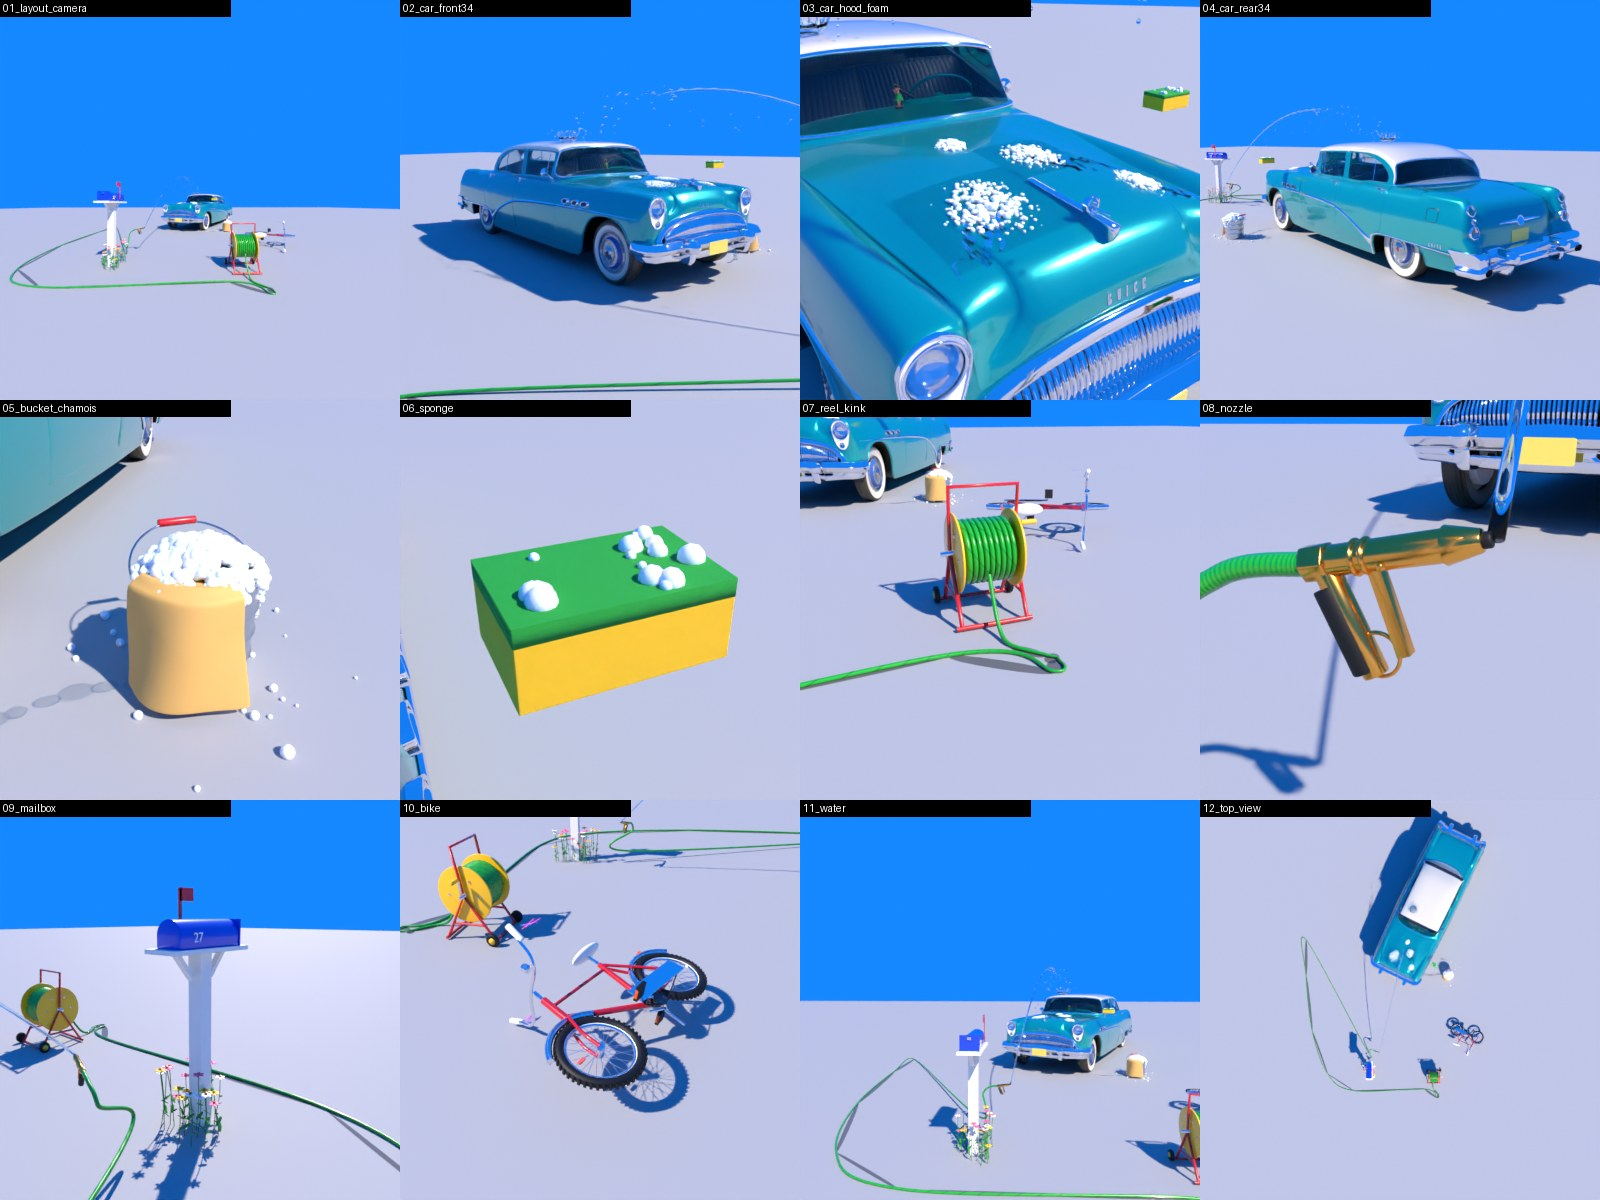
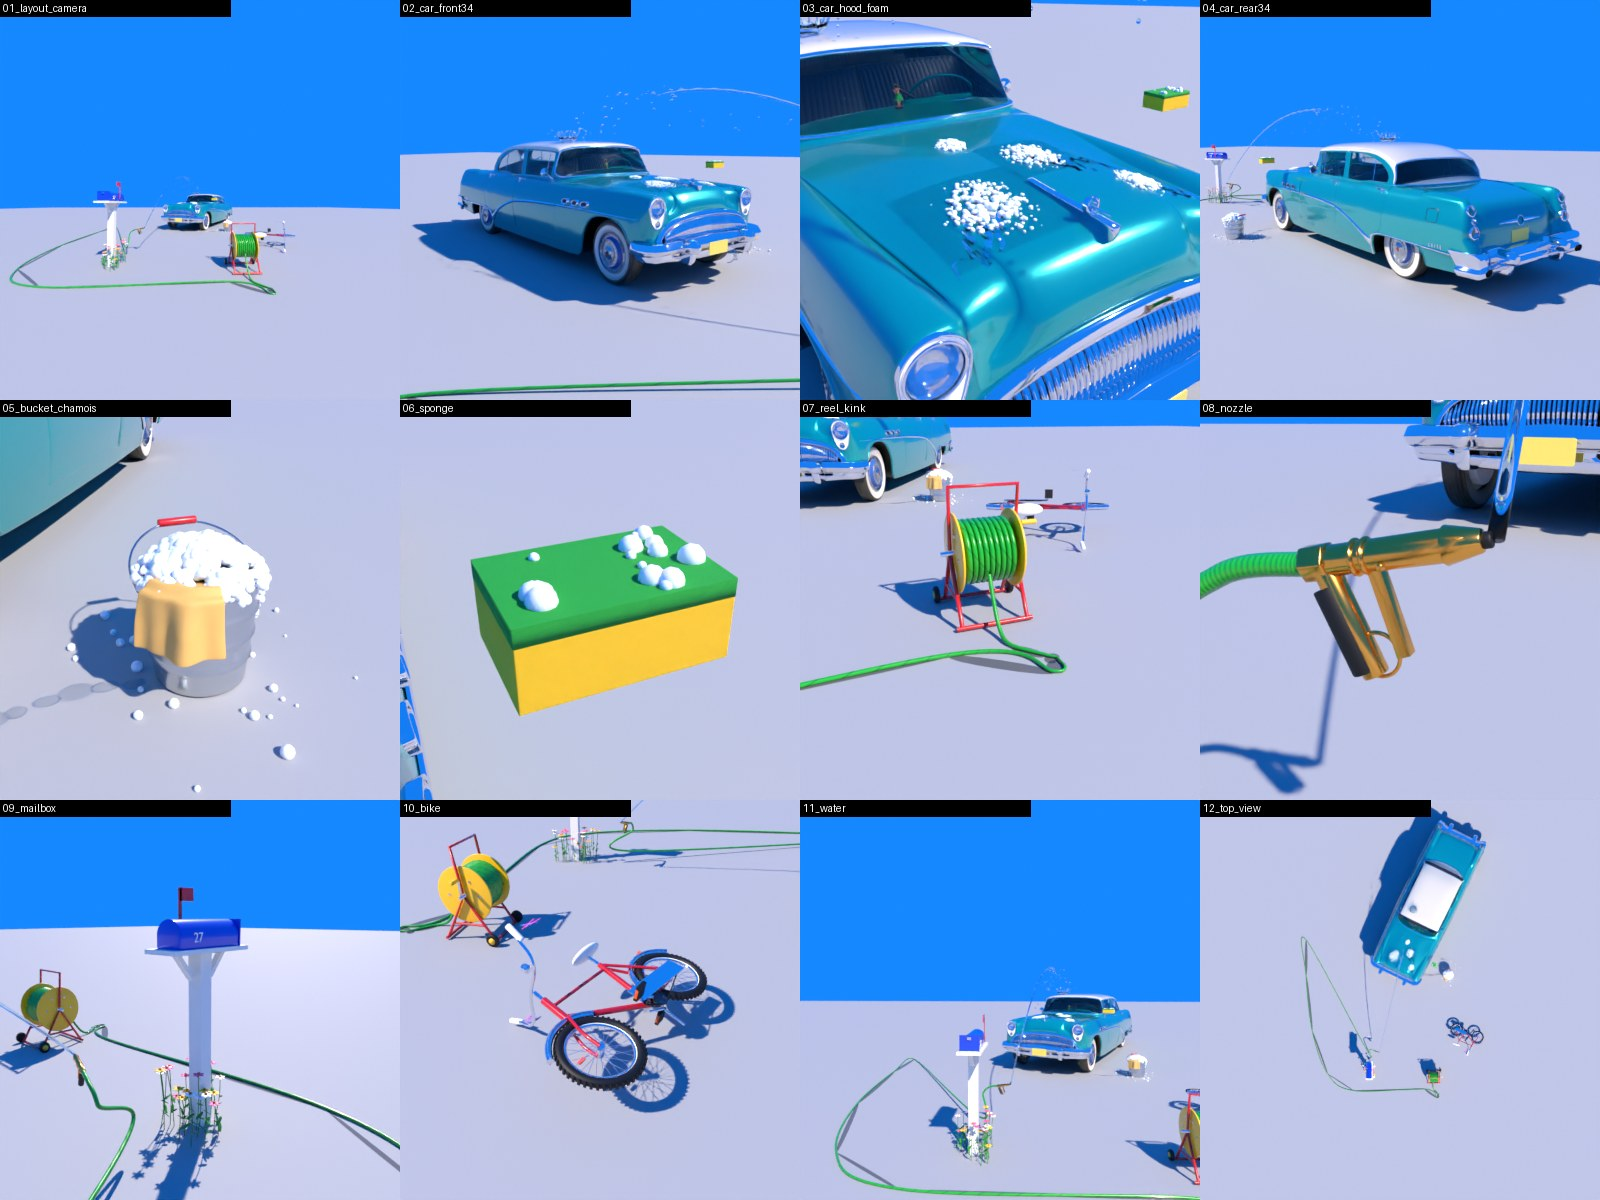
Style test: car and props (Buick CC-BY asset, bucket, hose, reel, mailbox, water)
Claude-Session: https://claude.ai/code/session_01DrjR3Ltb34YxYG9MboPX6s

Changed region(s): [[0.0625, 0.4625, 0.1562, 0.6167], [0.6875, 0.8633, 0.7188, 0.8942], [0.5625, 0.4008, 0.5938, 0.4317]]

diff --git a/episodes/_style_test/props/PROPS.md b/episodes/_style_test/props/PROPS.md
@@ -1,0 +1,34 @@
+# PROPS, style test (props-hero 2026-11-21). Built by `props/build_props.py` (+ `props/hose_tool.py`), Blender 5.3, no hand edits.
+File: `props/props.blend`. Metres, Z up. Each prop = one collection with a ROOT EMPTY named as its LAYOUT.json key, placed at the
+layout point and turn (read live from LAYOUT.json at build time; re-run the script after a layout change). Children sit in the root's
+local frame: origin on the ground at the footprint centre, front along -Y before the turn. Sizes = world bounding box, measured.
+
+| Collection (root) | Size m (bbox) | Place / turn | Source, licence |
+|---|---|---|---|
+| car (`car`) | 1.83 W x 5.41 L x 1.50 H (car-local) | LAYOUT car pos, rot_z -26 | Sketchfab "1954 Buick based" sedan, Libau Media, CC BY 4.0 (see ASSETS.md) |
+| bucket (`bucket`) | bucket 0.32 dia x 0.31 (+ handle); bubbles/drip trail spread 1.2 m | LAYOUT bucket | own model |
+| chamois (`chamois`) | 0.19 x 0.17 x 0.16 drape | same root point as the bucket | own model |
+| sponge (`sponge`) | 0.20 x 0.13 x 0.08 | grandpa hand 1 (LAYOUT hands_world_local_xz[0]) minus 6 cm, rot -26 | own model |
+| hose_reel (`hose_reel`) | 0.56 x 0.46 x 0.71 | LAYOUT hose_reel | own model |
+| hose (`hose`, root at world 0) | 11 mm radius, route 4.5 x 5.2 m | points in `hose_points.json` (WORLD) | own model |
+| mailbox (`mailbox`) | box 0.48 x 0.17 x 0.15 on a 1.02 m post, 1.36 total | LAYOUT mailbox, rot_z 180 (door to the street, flag + dent to the camera) | own model |
+| kids_bike (`bike`) | 16-inch bike 1.12 long, lying on its side, 0.64 high | LAYOUT bike, rot_z +70 (= -yaw) | own model |
+| water (`water`, root at world 0) | arc 5.33 m long, nozzle tip -> car roof | `water_points.json` (WORLD) | own model |
+
+## Five details per object, as built
+- Car: candy turquoise metallic clearcoat (flake bump) with cream gloss roof and steel wheels; chrome bumpers, grille bars, side spears, trim; whitewall tyres (asset texture) on chrome hubcaps; round headlamps under chrome hoods, wiper blades (asset); 724 soap-foam bubbles in 4 patches on the hood + 12 wet streaks + 2 wet sheen sheets (material `wet_film`). Badges blanked: "BUICK" hood letters and trunk script deleted (1287 verts), author logo -> chrome, plate -> blank yellow, credits plane deleted.
+- Bucket: galvanised steel, 3 pressed ribs, rolled rim, riveted handle ears (4 rivets), wire bail handle with red grip dropped to one side; 420 suds bubbles heaped over the rim + 40 running down one side; 26 loose bubbles on the ground; 9-blob glossy drip trail toward the car (-X).
+- Chamois: tan leather cloth, solidified 3 mm, hanging folds, lies on the suds inside and hangs over the lip toward the camera (angle -125 deg).
+- Sponge: yellow body with voronoi pores (displace), green scouring layer, rounded bevels, 40 suds blobs on top.
+- Hose: glossy green, darker spiral stripe + spiral ridge bump (curve UV), flattened kink near the reel (point 5, radius 0.45), lies on the ground (handles clamped >= radius), wet dark trail decals on the concrete under the flat part; brass pistol nozzle at the kid's hands: hex coupling, barrel with 2 knurl rings, cone spray head with rubber orifice, black rubber grip, trigger on a pivot pin, trigger lock loop.
+- Hose reel: red A-frame tubes with braces and runners, yellow flanges with 6 chrome bolts each side, 3 layers of wound green hose on the drum, chrome axle, chrome crank arm with yellow handle, red pull handle, 2 rubber wheels with yellow hubs.
+- Mailbox: glossy blue tunnel box with rounded top, front door with chrome latch and hinge, red flag UP on a chrome pivot, raised white "27" on both sides, a soft dent on the camera side, white post with grain bump, mount board and 2 braces, 26 flowers (yellow, pink, white; stems, 6 petals, centres, leaves) at the foot.
+- Kid's bike: cherry clearcoat frame (7 tubes + head tube + fork), 2 wheels each with tyre + 48 tread blocks + whitewall + chrome rim + hub + 28 laced spokes + spoke reflector, chrome fenders, high-rise chrome bar, white grips with pink/blue streamers, bell, white saddle, 32-tooth chainring, chain, rear cog, chain guard, cranks, pedals with reflectors, kickstand, rear reflector.
+- Water: tapering tube (16 sides) that beads (Rayleigh wobble) and closes to a point at 70 % of the path; 44 drops along the broken end, 20 strays falling under the arc; splash crown on the roof = flared sheet + 18 spikes with a bead each + 14 flung drops. Material is a placeholder: shading belongs to the look-finisher.
+
+## Held props: hand, word, model
+| Prop | Who / hand | Word | Model |
+|---|---|---|---|
+| sponge | grandpa, hand 1 (LAYOUT hands_world_local_xz[0]) | still, no line | `sponge` collection |
+| hose nozzle | kid, both hands (mean of LAYOUT kid hands) | still, no line | end of `hose` + nozzle parts |
+Lettering in the world: mailbox "27" only. No brand names left on the car.

diff --git a/episodes/_style_test/crew/props-hero_check.md b/episodes/_style_test/crew/props-hero_check.md
@@ -1,0 +1,24 @@
+# props-hero check, style test (2026-11-21)
+Side by side: `crew/props-hero_vs_rick.jpg` (top: ours car left, Rick car science f_0021 right, PRIVATE; bottom: hood foam macro, nozzle macro).
+Proof sheet: `props/PROPS_SHEET.jpg` (12 tiles, Cycles 16 spp, 400 px, plain grey ground, LAYOUT sun, flat sky).
+
+## Detail number, car close-up (tools/measure/detail_density.py, same-size crops 540x377)
+| | edge density | regions | fine regions | colours (>=0.1 % of crop) |
+|---|---|---|---|---|
+| ours | 0.0685 | 869 | 801 | 233 |
+| Rick | 0.0701 | 818 | 708 | 249 |
+| ours / Rick | 98 % | 106 % | 113 % | 94 % |
+All >= 90 %: PASS. Parts by eye: ours bumpers, grille (38 bars), hood ornament, 2 headlamps + hoods, side spears, 4 whitewalls + hubcaps, wipers, mirror, plate, interior seats/dash; Rick: grille, LED strip, rims, mirrors, seats, dash screen. Ours >= his.
+
+## Gate
+- Hero (car) part count >= Rick's: yes (809 objects, 164k triangles after letter blanking). Shiny streak: yes (sky/sun streaks on hood, fenders, chrome).
+- Five details per object: PROPS.md. Lettering: "27" on the mailbox; brand letters, author plate and logo blanked.
+- Held props: sponge -> grandpa hand 1, nozzle -> kid hands (LAYOUT points); no prop flies in (one still).
+- Ground: every ground prop min_z 0.000 (bucket -0.007 = drip-trail blobs sunk 7 mm, on purpose). Hose never below ground (min 0.0001).
+- Phone check: props alone read at 400 px tile size; the in-frame phone check belongs to the assembled still (look-finisher).
+
+## Still below Rick / open
+- Water arc and drops: placeholder clear material, thin at sheet size; reads only once the look-finisher shades it (glints, mist).
+- Wet streaks on the hood: barely visible under flat sky; they need the house/sky reflections of the real scene to read.
+- Sponge pores only read in a macro.
+- Bike lying 0.5 m from the hose reel path and next to the bucket zone: check in the layout camera (the assembler).

diff --git a/episodes/_style_test/props/STATE.md b/episodes/_style_test/props/STATE.md
@@ -1,0 +1,10 @@
+# props STATE (props-hero, 2026-11-21, round 1)
+Built: car (Sketchfab CC BY Buick, repainted, letters/plate/logo/credits blanked, foam + wet), bucket, chamois, sponge, hose reel,
+hose (curve) + brass nozzle, mailbox + flowers, kid's bike (lying), water arc + drops + crown. All placed to LAYOUT.json at build time.
+Files: build_props.py (run: `blender -b --python props/build_props.py`, about 3.5 min), hose_tool.py (make_hose / make_water,
+importable in scene.blend), props.blend (22 MB), hose_points.json + water_points.json (WORLD; delete them to regenerate from
+LAYOUT, edit them to re-route), props_stats.json (sizes, triangles, placements), render_sheet.py -> _sheet_tiles/ + PROPS_SHEET.jpg,
+ASSETS.md, PROPS.md, PROP_STATES.md, crew/props-hero_check.md, crew/props-hero_vs_rick.jpg (PRIVATE: has a Rick frame).
+Numbers: car 1.83x5.41x1.50 m, 164k tris, density vs Rick 98/106/113/94 %. Water arc 5.33 m, 96 drops total.
+Weak: water shading (look-finisher), wet streak visibility, sponge pores only in macro.
+Open: if LAYOUT moves the kid, the hose and water JSONs must be deleted and the script re-run (they are frozen once written).

diff --git a/episodes/_style_test/props/PROP_STATES.md b/episodes/_style_test/props/PROP_STATES.md
@@ -1,0 +1,10 @@
+# PROP_STATES (style test, one still)
+| Prop | Place | Orientation | State |
+|---|---|---|---|
+| car | LAYOUT car | front -Y turned -26 deg | clean, wet: foam patches + streaks on the hood |
+| bucket + chamois | LAYOUT bucket | chamois toward camera | full of suds, overflowing one side, wet drip trail |
+| sponge | grandpa hand 1 | car turn | soapy |
+| hose | reel -> kid hands | nozzle points screen right to the car roof | full, spraying; kinked near the reel; wet trail |
+| mailbox | LAYOUT mailbox | door to street | flag up, dented |
+| bike | LAYOUT bike | lying on its right side | intact |
+| water | nozzle tip -> car roof | arc | spraying, splash crown on the roof |
